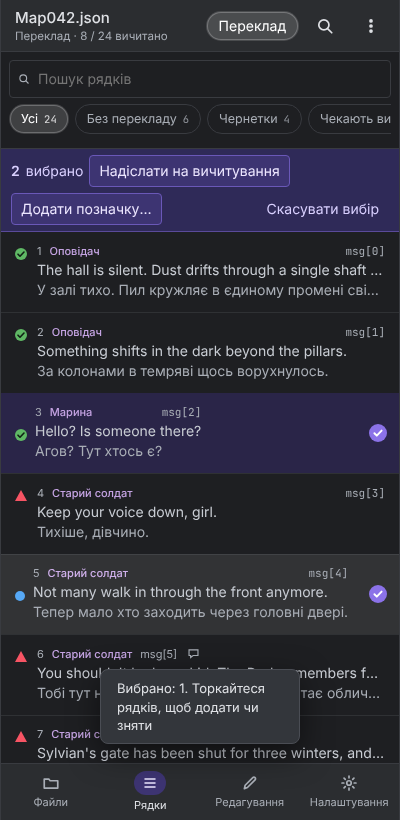
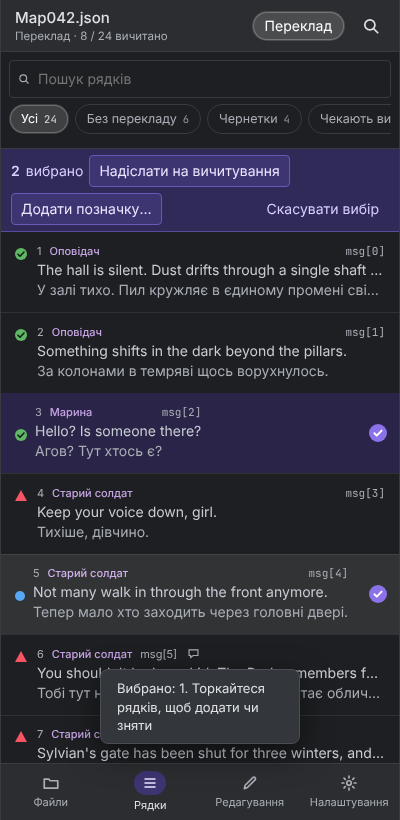
Mobile: move ⋮ menu items into Settings, drop ⋮ button
Claude-Session: https://claude.ai/code/session_01CC8rBQZdveFkpkVWpQFuUu

Changed region(s): [[0.51, 0.0, 0.87, 0.061], [0.9, 0.0305, 0.96, 0.061]]

diff --git a/mockup/mobile.html b/mockup/mobile.html
@@ -771,6 +771,7 @@ html{background:#121315}
 .ide.sz-s #lp-rows #bulk button{height:32px}
 .ide.sz-s #bb-rep,.ide.sz-s #bb-tm{display:none}
 .ide.sz-s #lp-rows #bulk .ghost{margin-left:auto}
+.dl-acts{display:flex;flex-direction:column;gap:6px}.dl-acts .btn{height:40px;text-align:left;padding:0 14px}
 .lphint{padding:6px 14px;color:var(--mute);font-size:11.5px}
 @media (prefers-reduced-motion:reduce){.ide.sz-s .fs{transition:none}}
 </style>
@@ -805,7 +806,7 @@ html{background:#121315}
     <div class="abt"><b id="ab-title">Map042.json</b><small id="ab-sub"></small></div>
     <button class="chip on" id="ab-stage" title="Змінити етап"></button>
     <button class="ab-ic sd-open" aria-label="Пошук скрізь"><svg viewBox="0 0 16 16"><circle cx="7" cy="7" r="4.5"/><path d="M10.5 10.5L14 14"/></svg></button>
-    <button class="ab-ic" id="ab-more" data-popbtn aria-label="Ще"><svg viewBox="0 0 16 16"><circle cx="8" cy="3.5" r=".9" fill="currentColor"/><circle cx="8" cy="8" r=".9" fill="currentColor"/><circle cx="8" cy="12.5" r=".9" fill="currentColor"/></svg></button>
+    
   </header>
 
   <!-- main -->
@@ -1802,13 +1803,17 @@ setInterval(()=>{const sy=settings.sync;if(sy.every&&Date.now()-sy.last>sy.every
   document.addEventListener('click',e=>{const t=e.target;
     const nv=t.closest('#bnav [data-nav]');
     if(nv){const n=nv.dataset.nav;if(n==='settings'){openSettings()}else{sheet=false;setLp(n==='edit'?null:n)}return}
-    if(t.closest('[data-act=hints]')){sheet=true;layout();return}
+    const ma=t.closest('#dlg [data-ma]');if(ma){const k=ma.dataset.ma;closeDialog(true);
+      if(k==='hints'){sheet=true;layout()}else if(k==='qa'){setLp('rows');filter='qa';renderAll()}else if(k==='sync')openDeviceSync();return}
     if(t.closest('#scrim')){sheet=false;layout();return}
     if(t.closest('#ab-stage')){setMode(mode==='proof'?'focus':'proof');return}
     if(t.closest('.si')){if(suppress){suppress=false;return}if(checked.size){const i=+t.closest('.si').dataset.i;checked.has(i)?checked.delete(i):checked.add(i);renderAll();return}setLp(null);return}
     const df=t.closest('[data-file]');if(df&&FILES[df.dataset.file]){setLp('rows');return}
-    if(t.closest('#ab-more')){menu($('ab-more'),[{t:'Вказівки до рядка',act:'hints'},{t:'Показати проблеми QA',act:'qa'},{t:'Синхронізація пристроїв…',act:'devsync'},{t:'Скинути демо-дані',act:'reset'}]);return}
   });
+  /* everything from the old ⋮ menu lives in Settings on the phone */
+  const baseOS=openSettings;
+  openSettings=function(){baseOS();const d=document.createElement('div');d.className='dl-acts';
+    d.innerHTML='<button class="btn" data-ma="hints">Вказівки до рядка</button><button class="btn" data-ma="qa">Показати проблеми QA</button><button class="btn" data-ma="sync">Синхронізація пристроїв…</button>';$('dlg-b').prepend(d)};
   /* long press on a row starts multi-select; further taps toggle rows */
   let suppress=false,lpT=null,lpXY=null;
   const rowsPanel=$('lp-rows');rowsPanel.insertBefore($('bulk'),rowsPanel.querySelector('.fh').nextSibling);
